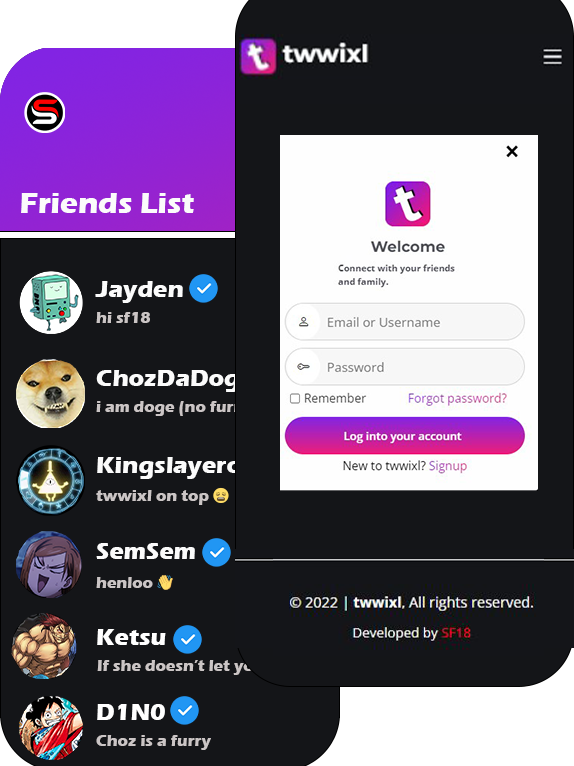
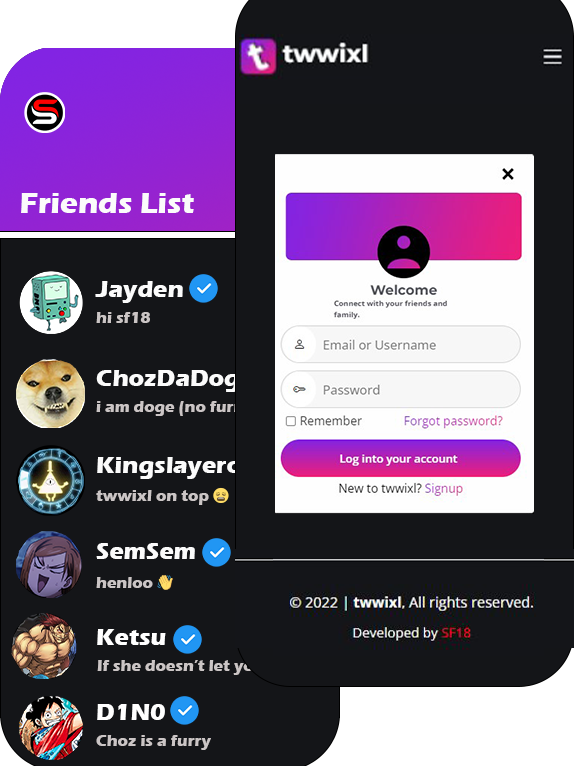
twwixl

Changed region(s): [[0.4739, 0.1501, 0.9477, 0.6906]]

diff --git a/index.html b/index.html
@@ -553,11 +553,11 @@
               <h3>twwixl Free</h3>
               <h4><sup>$</sup>0<span> / month</span></h4>
               <ul>
-                <li>Aida dere</li>
-                <li>Nec feugiat nisl</li>
-                <li>Nulla at volutpat dola</li>
-                <li class="na">Pharetra massa</li>
-                <li class="na">Massa ultricies mi</li>
+                <li>Darkmode</li>
+                <li>10Mb Uploads</li>
+                <li class="na">Flower Support</li>
+                <li class="na">Custom Wallpaper</li>
+                <li class="na">Custom Badges</li>
               </ul>
               <div class="btn-wrap">
                 <a href="#" class="btn-buy">Buy Now</a>
@@ -567,14 +567,14 @@
 
           <div class="col-lg-3 col-md-6 mt-4 mt-md-0">
             <div class="box featured" data-aos="zoom-in" data-aos-delay="200">
-              <h3>twwixl Support</h3>
-              <h4><sup>$</sup>9.99<span> / month</span></h4>
+              <h3>twwixl Budget</h3>
+              <h4><sup>$</sup>4.99<span> / month</span></h4>
               <ul>
-                <li>Aida dere</li>
-                <li>Nec feugiat nisl</li>
-                <li>Nulla at volutpat dola</li>
-                <li>Pharetra massa</li>
-                <li class="na">Massa ultricies mi</li>
+                <li>Darkmode</li>
+                <li>25Mb Uploads</li>
+                <li>Flower Support 2x</li>
+                <li class="na">Custom Wallpaper</li>
+                <li class="na">Custom Badges</li>
               </ul>
               <div class="btn-wrap">
                 <a href="#" class="btn-buy">Buy Now</a>
@@ -584,14 +584,14 @@
 
           <div class="col-lg-3 col-md-6 mt-4 mt-lg-0">
             <div class="box" data-aos="zoom-in" data-aos-delay="300">
-              <h3>twwixl Business</h3>
-              <h4><sup>$</sup>14.99<span> / month</span></h4>
+              <h3>twwixl Classic</h3>
+              <h4><sup>$</sup>9.99<span> / month</span></h4>
               <ul>
-                <li>Aida dere</li>
-                <li>Nec feugiat nisl</li>
-                <li>Nulla at volutpat dola</li>
-                <li>Pharetra massa</li>
-                <li>Massa ultricies mi</li>
+                <li>Darkmode</li>
+                <li>50Mb Uploads</li>
+                <li>Flower Support 4x</li>
+                <li>Custom Wallpaper</li>
+                <li class="na">Custom Badges</li>
               </ul>
               <div class="btn-wrap">
                 <a href="#" class="btn-buy">Buy Now</a>
@@ -603,13 +603,13 @@
             <div class="box" data-aos="zoom-in" data-aos-delay="400">
               <span class="advanced">Advanced</span>
               <h3>twwixl Ultimate</h3>
-              <h4><sup>$</sup>19.99<span> / month</span></h4>
+              <h4><sup>$</sup>14.99<span> / month</span></h4>
               <ul>
-                <li>Aida dere</li>
-                <li>Nec feugiat nisl</li>
-                <li>Nulla at volutpat dola</li>
-                <li>Pharetra massa</li>
-                <li>Massa ultricies mi</li>
+                <li>Darkmode</li>
+                <li>100Mb Uploads</li>
+                <li>Flower support 8x</li>
+                <li>Custom Wallpaper</li>
+                <li>Custom Badges</li>
               </ul>
               <div class="btn-wrap">
                 <a href="#" class="btn-buy">Buy Now</a>
@@ -634,46 +634,46 @@
         <div class="faq-list">
           <ul>
             <li data-aos="fade-up">
-              <i class="bx bx-help-circle icon-help"></i> <a data-bs-toggle="collapse" class="collapse" data-bs-target="#faq-list-1">Non consectetur a erat nam at lectus urna duis? <i class="bx bx-chevron-down icon-show"></i><i class="bx bx-chevron-up icon-close"></i></a>
+              <i class="bx bx-help-circle icon-help"></i> <a data-bs-toggle="collapse" class="collapse" data-bs-target="#faq-list-1">Is it secure? <i class="bx bx-chevron-down icon-show"></i><i class="bx bx-chevron-up icon-close"></i></a>
               <div id="faq-list-1" class="collapse show" data-bs-parent=".faq-list">
                 <p>
-                  Feugiat pretium nibh ipsum consequat. Tempus iaculis urna id volutpat lacus laoreet non curabitur gravida. Venenatis lectus magna fringilla urna porttitor rhoncus dolor purus non.
+                  Yes it is we would never steal ur data or share ur private data.
                 </p>
               </div>
             </li>
 
             <li data-aos="fade-up" data-aos-delay="100">
-              <i class="bx bx-help-circle icon-help"></i> <a data-bs-toggle="collapse" data-bs-target="#faq-list-2" class="collapsed">Feugiat scelerisque varius morbi enim nunc? <i class="bx bx-chevron-down icon-show"></i><i class="bx bx-chevron-up icon-close"></i></a>
+              <i class="bx bx-help-circle icon-help"></i> <a data-bs-toggle="collapse" data-bs-target="#faq-list-2" class="collapsed">Could i support my favorite creator? <i class="bx bx-chevron-down icon-show"></i><i class="bx bx-chevron-up icon-close"></i></a>
               <div id="faq-list-2" class="collapse" data-bs-parent=".faq-list">
                 <p>
-                  Dolor sit amet consectetur adipiscing elit pellentesque habitant morbi. Id interdum velit laoreet id donec ultrices. Fringilla phasellus faucibus scelerisque eleifend donec pretium. Est pellentesque elit ullamcorper dignissim. Mauris ultrices eros in cursus turpis massa tincidunt dui.
+                  Yes you can starting with the 9$ plan of twwixl support.
                 </p>
               </div>
             </li>
 
             <li data-aos="fade-up" data-aos-delay="200">
-              <i class="bx bx-help-circle icon-help"></i> <a data-bs-toggle="collapse" data-bs-target="#faq-list-3" class="collapsed">Dolor sit amet consectetur adipiscing elit? <i class="bx bx-chevron-down icon-show"></i><i class="bx bx-chevron-up icon-close"></i></a>
+              <i class="bx bx-help-circle icon-help"></i> <a data-bs-toggle="collapse" data-bs-target="#faq-list-3" class="collapsed">How do i get badges? <i class="bx bx-chevron-down icon-show"></i><i class="bx bx-chevron-up icon-close"></i></a>
               <div id="faq-list-3" class="collapse" data-bs-parent=".faq-list">
                 <p>
-                  Eleifend mi in nulla posuere sollicitudin aliquam ultrices sagittis orci. Faucibus pulvinar elementum integer enim. Sem nulla pharetra diam sit amet nisl suscipit. Rutrum tellus pellentesque eu tincidunt. Lectus urna duis convallis convallis tellus. Urna molestie at elementum eu facilisis sed odio morbi quis
+                  There are several ways to get different badges but to get the early supporter badge is buying one of are plans and to get the hacker badge you get if you're a beta user.
                 </p>
               </div>
             </li>
 
             <li data-aos="fade-up" data-aos-delay="300">
-              <i class="bx bx-help-circle icon-help"></i> <a data-bs-toggle="collapse" data-bs-target="#faq-list-4" class="collapsed">Tempus quam pellentesque nec nam aliquam sem et tortor consequat? <i class="bx bx-chevron-down icon-show"></i><i class="bx bx-chevron-up icon-close"></i></a>
+              <i class="bx bx-help-circle icon-help"></i> <a data-bs-toggle="collapse" data-bs-target="#faq-list-4" class="collapsed">How do i get verified? <i class="bx bx-chevron-down icon-show"></i><i class="bx bx-chevron-up icon-close"></i></a>
               <div id="faq-list-4" class="collapse" data-bs-parent=".faq-list">
                 <p>
-                  Molestie a iaculis at erat pellentesque adipiscing commodo. Dignissim suspendisse in est ante in. Nunc vel risus commodo viverra maecenas accumsan. Sit amet nisl suscipit adipiscing bibendum est. Purus gravida quis blandit turpis cursus in.
+                  You can get verified by requesting verification you just need to prove that you're the real account.
                 </p>
               </div>
             </li>
 
             <li data-aos="fade-up" data-aos-delay="400">
-              <i class="bx bx-help-circle icon-help"></i> <a data-bs-toggle="collapse" data-bs-target="#faq-list-5" class="collapsed">Tortor vitae purus faucibus ornare. Varius vel pharetra vel turpis nunc eget lorem dolor? <i class="bx bx-chevron-down icon-show"></i><i class="bx bx-chevron-up icon-close"></i></a>
+              <i class="bx bx-help-circle icon-help"></i> <a data-bs-toggle="collapse" data-bs-target="#faq-list-5" class="collapsed">Where can I go to if I have a suggestion or complaint? <i class="bx bx-chevron-down icon-show"></i><i class="bx bx-chevron-up icon-close"></i></a>
               <div id="faq-list-5" class="collapse" data-bs-parent=".faq-list">
                 <p>
-                  Laoreet sit amet cursus sit amet dictum sit amet justo. Mauris vitae ultricies leo integer malesuada nunc vel. Tincidunt eget nullam non nisi est sit amet. Turpis nunc eget lorem dolor sed. Ut venenatis tellus in metus vulputate eu scelerisque.
+                  You give ur suggestion or complaint by email at<a>officialtwwixl@gmail.com</a>
                 </p>
               </div>
             </li>
@@ -793,7 +793,11 @@
   <form class="modal-content animate" action="/action_page.php" method="post">
     <div class="imgcontainer">
       <span onclick="document.getElementById('id01').style.display='none'" class="close" title="Close Modal">&times;</span>
-      <img src="/assets/img/New_twwixl Logo_Rounded.svg" height="60" alt="">
+      <img src="/assets/img/twwixl_login_background.png" height="90" style="border-radius: 8px;" alt="">
+      <div> <img src="/assets/img/team/team-3.jpg" height="70" style="border-radius: 100%;  position: absolute;
+       top: 130px;
+       left: 40%;
+       transform: translateY(-50%); " alt="">
       <h3><strong>Welcome</strong></h3>
       <p><strong>Connect with your friends and family.</strong></p>
       <div class="input_box" style="  position: absolute;

diff --git a/assets/css/style.css b/assets/css/style.css
@@ -1739,18 +1739,18 @@ form a:hover{
 .modal h3 {
   color: #4f515b;
   position: absolute;
-	top: 32%;
+	top: 38%;
 	left: 50%;
 	transform: translate(-50%, -50%);
-  font-size: 20px;
+  font-size: 18px;
 }
 .modal p {
   color: #4f515b;
   position: absolute;
-	top: 40%;
+	top: 43%;
 	left: 170px;
 	transform: translate(-50%, -50%);
-  font-size: 12px;
+  font-size: 10px;
 } 
 .modal img {
   position: absolute;
